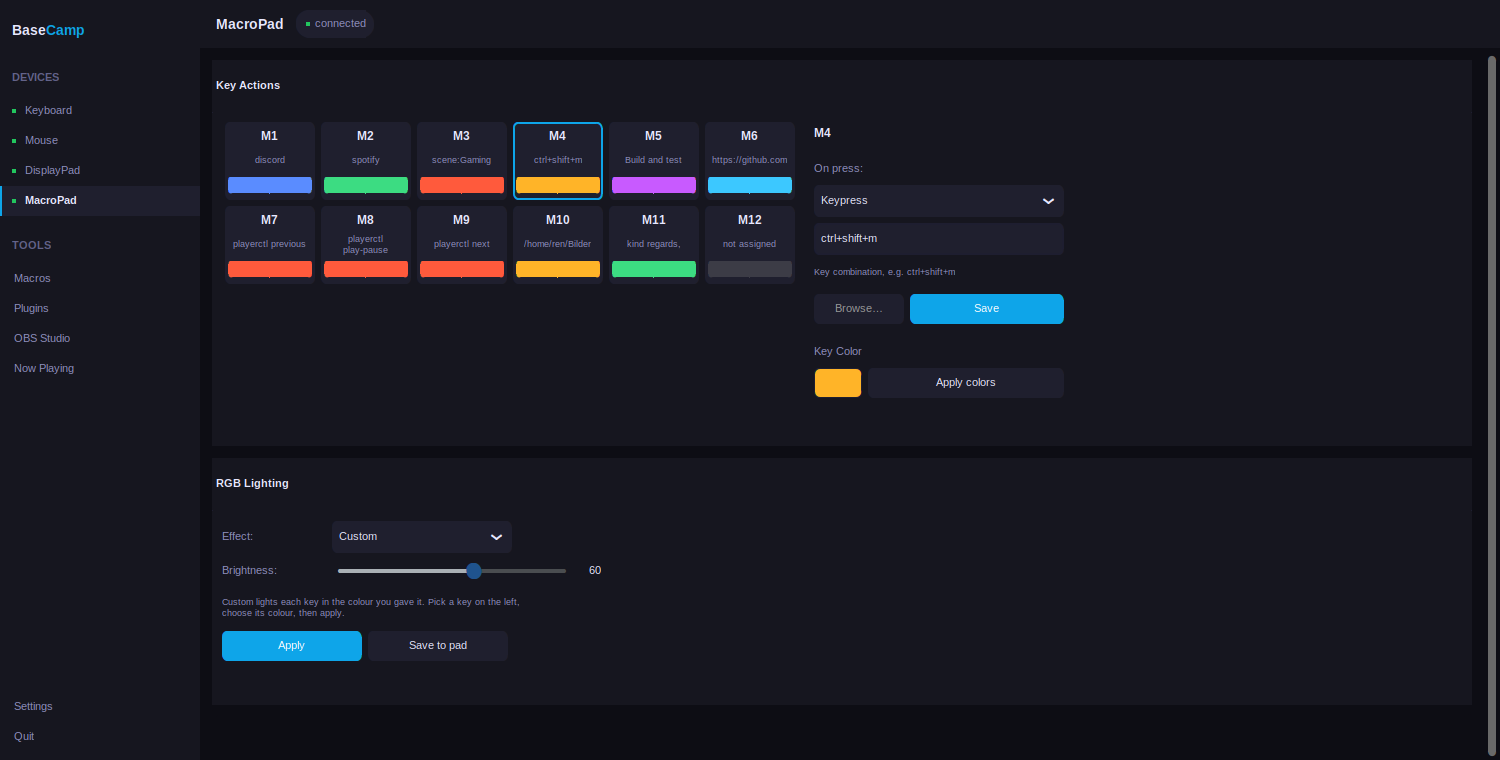
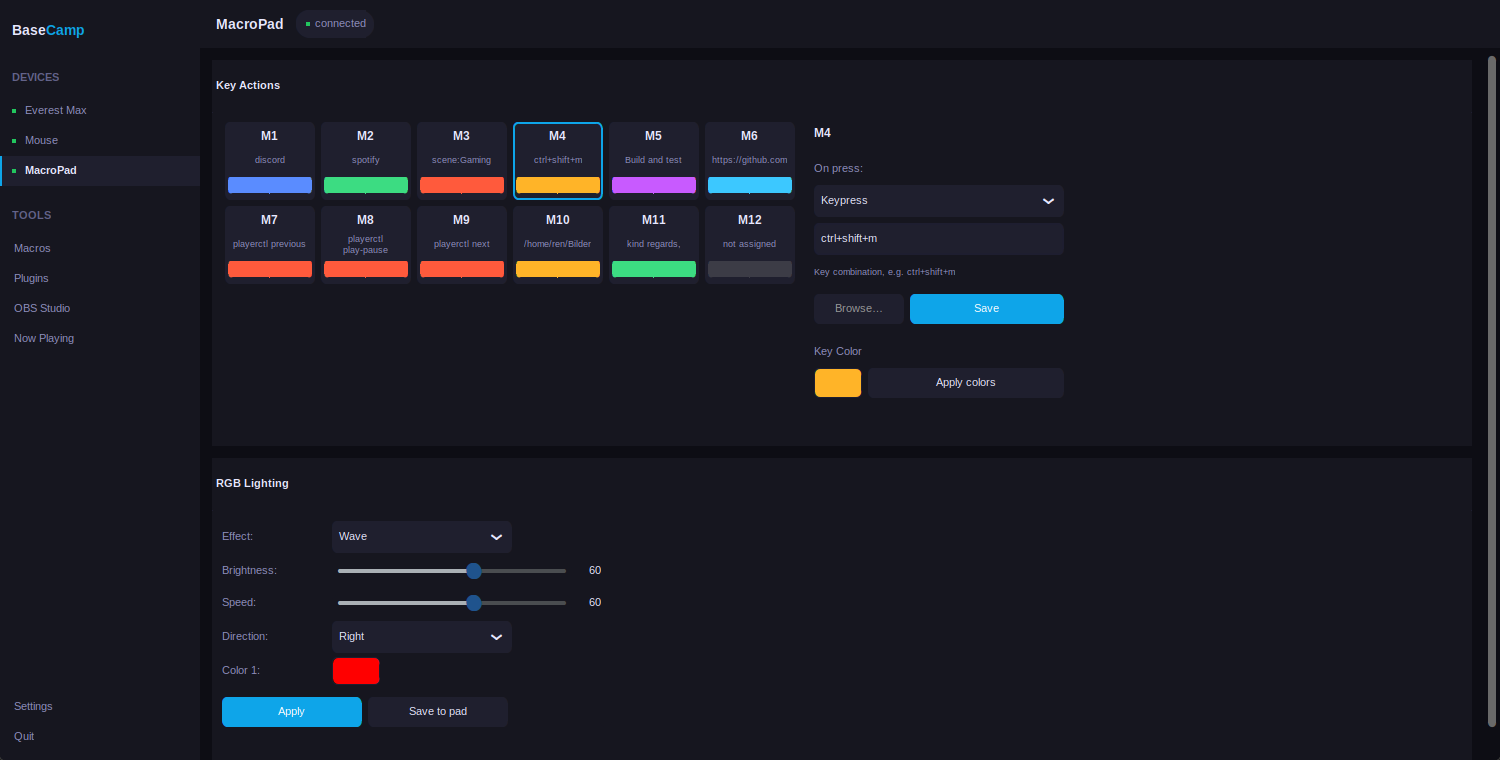
The README shows the lighting the MacroPad can now actually do (#85)

diff --git a/README.md b/README.md
@@ -5,12 +5,17 @@
 # BaseCamp Linux
 
 > [!NOTE]
-> ### MacroPad support has landed
+> ### The MacroPad is supported, and measured
 >
 > Two owners ran `tools/macropad_probe.py` on their pads and sent the reports
 > back in [issue #85](https://github.com/ramisotti13-eng/BaseCamp-Linux/issues/85).
-> That closed the last gap in the protocol, the format of a key press, and the
-> MacroPad now has its own screen with lighting and key actions. Thank you both.
+> The first runs settled the format of a key press, which is what gave the
+> MacroPad its own screen with lighting and key actions. Five more runs of the
+> lighting pass then settled the lighting itself, one wrong reading at a time.
+> Nothing about this device is derived from the Windows software alone any
+> more: the key report, all eleven effects, both direction mappings, the speed
+> translation and the per key colour path have each been watched working on a
+> real pad. Thank you @FrankieDedo and @Thargorrr.
 >
 > The probe stays in the repository. If something on your pad does not behave,
 > running it and attaching the file it writes is still the fastest way to show
@@ -473,7 +478,13 @@ runs the action. Each key has a short debounce so one press is one action.
 
 - Effects: Static, Breathing, Wave, Tornado, Matrix, Yeti, Reactive A / B / C,
   Custom, Off
-- Brightness and speed, and one or two colours depending on the effect
+- Brightness, and speed where the effect has one. The slider has five real
+  positions: the pad wants a small number that runs downwards, not the 0 to
+  100 shown, and the translation differs per effect.
+- **Direction** for the two effects that travel: Wave goes Right, Left, Down
+  or Up, Tornado turns Clockwise or Counter-clockwise
+- One or two colours, depending on what the effect reads. A two colour Wave is
+  a gradient between them rather than two blocks.
 - **Custom** lights every key in its own colour: pick a key, set its colour in
   the inspector, then apply. The strip under each key in the grid shows the
   colour it will get.
